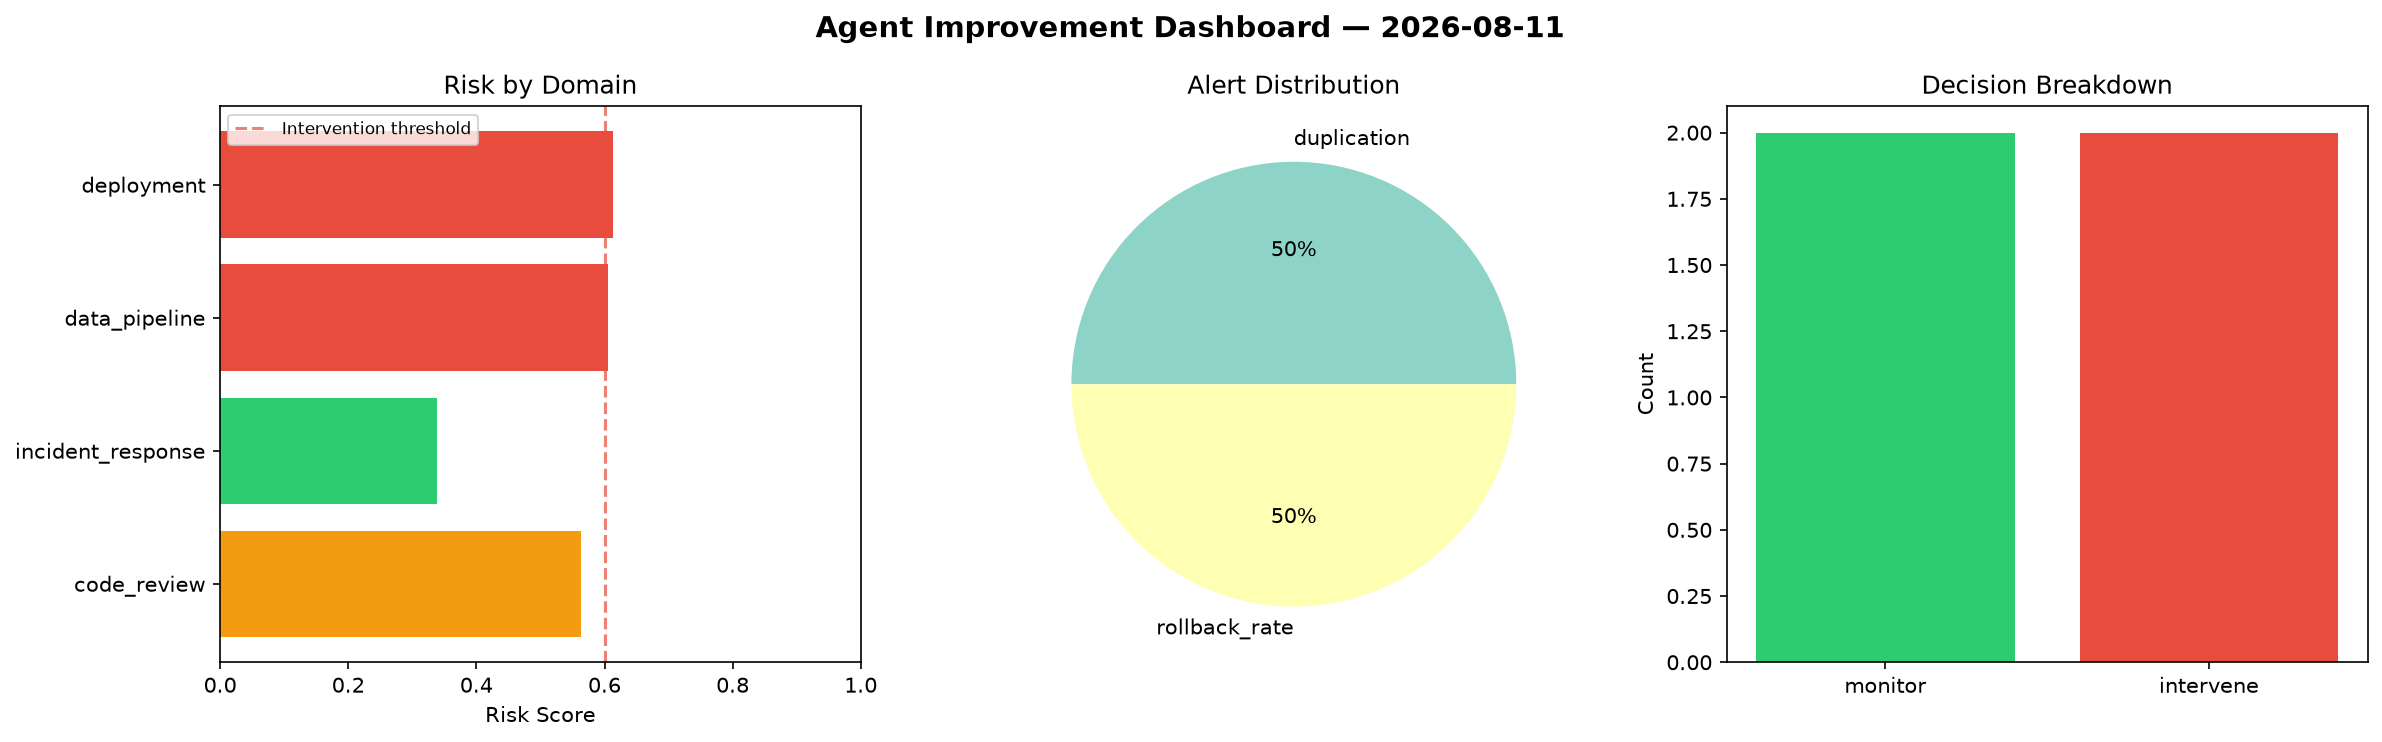
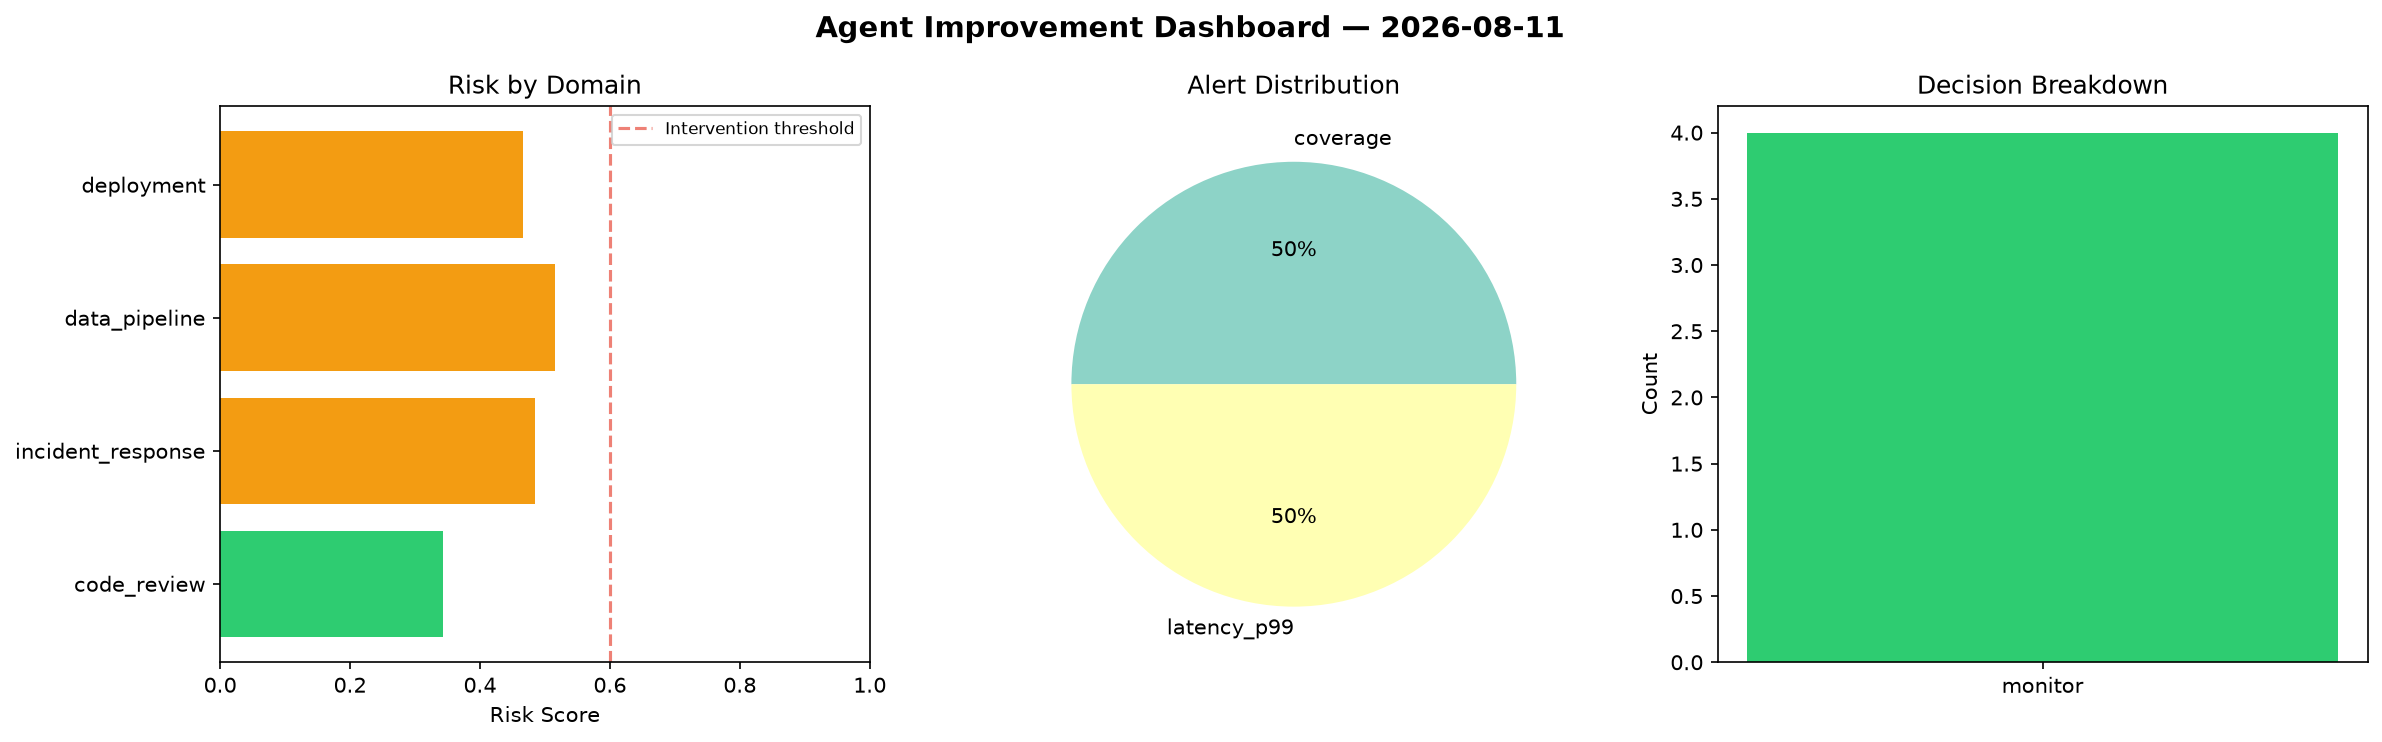
agent-improvement: daily cycle 2026-08-11T21:01

diff --git a/logs/2026-08-11.md b/logs/2026-08-11.md
@@ -1,6 +1,6 @@
 # Agent Improvement Report — 2026-08-11
 
-**Cycle ID:** `6a6615d2` | **Avg Risk:** 0.5302 | **Interventions:** 2/4
+**Cycle ID:** `068117b2` | **Avg Risk:** 0.4525 | **Interventions:** 0/4
 
 ![Dashboard](2026-08-11_dashboard.png)
 
@@ -10,18 +10,18 @@
 
 | Domain | Risk Score | Decision | Alerts |
 |--------|-----------|----------|--------|
-| code_review | 0.5633 | monitor | duplication |
-| incident_response | 0.3385 | monitor | none |
-| data_pipeline | 0.6062 | intervene | none |
-| deployment | 0.6129 | intervene | rollback_rate |
+| code_review | 0.3434 | monitor | coverage |
+| incident_response | 0.4841 | monitor | none |
+| data_pipeline | 0.5155 | monitor | none |
+| deployment | 0.4669 | monitor | latency_p99 |
 
 ## Delta vs Yesterday
 
 | Domain | Today | Yesterday | Change |
 |--------|-------|-----------|--------|
-| code_review | 0.5633 | 0.6321 | 📉 -10.9% |
-| incident_response | 0.3385 | 0.6121 | 📉 -44.7% |
-| data_pipeline | 0.6062 | 0.4778 | 📈 26.9% |
-| deployment | 0.6129 | 0.6432 | 📉 -4.7% |
+| code_review | 0.3434 | 0.6321 | 📉 -45.7% |
+| incident_response | 0.4841 | 0.6121 | 📉 -20.9% |
+| data_pipeline | 0.5155 | 0.4778 | 📈 7.9% |
+| deployment | 0.4669 | 0.6432 | 📉 -27.4% |
 
 **Refinement:** `{'adjustment': 'tighten_thresholds', 'trend': 'degrading', 'window': 4}`
